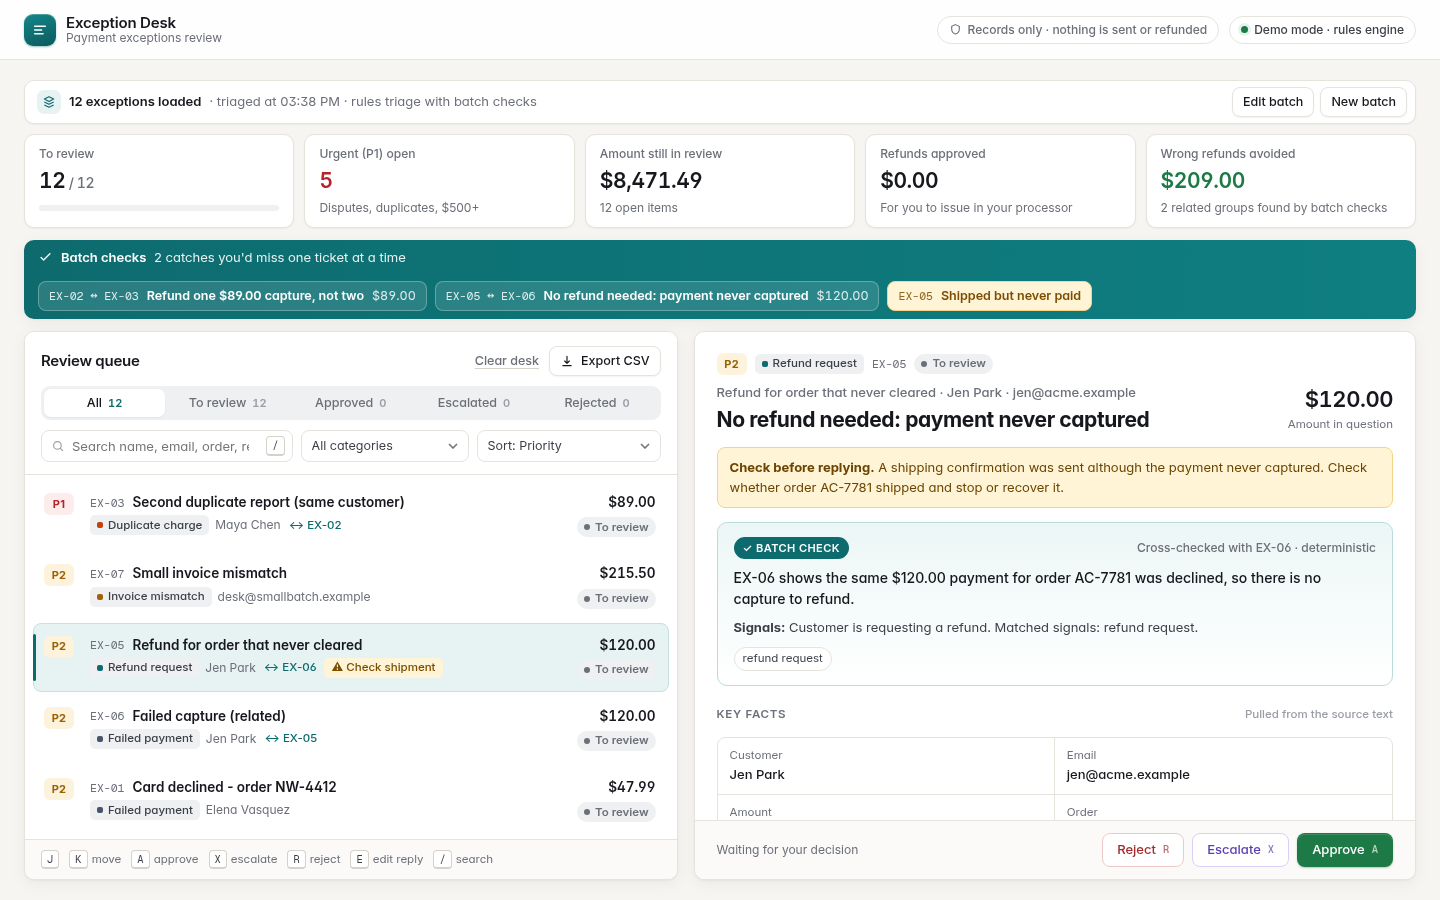
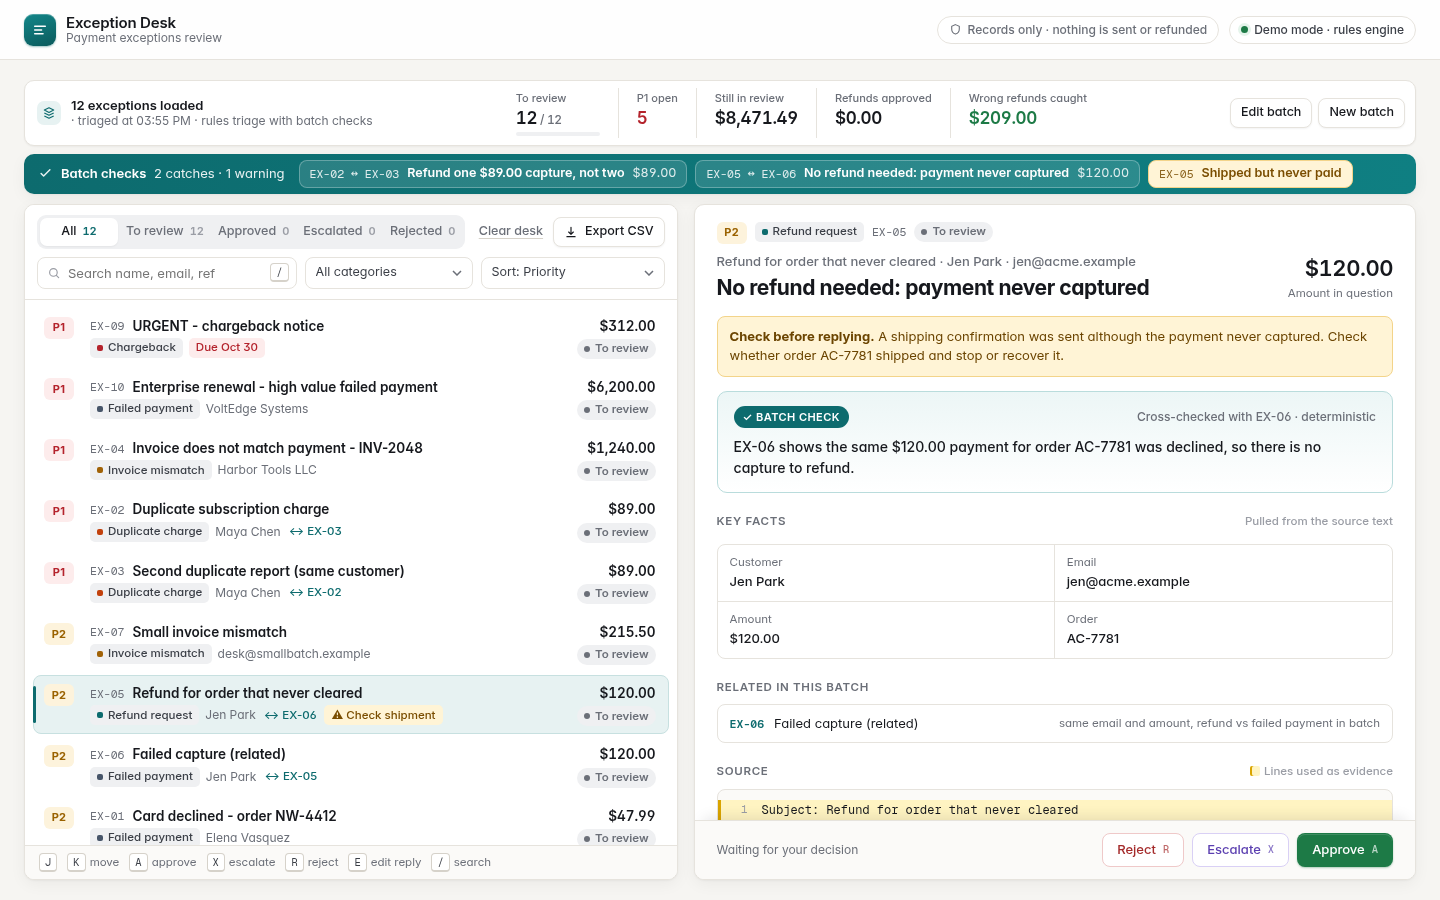
Fit 1440x900 recording frame: inline KPIs, one-line batch checks, 9 queue rows; Signal match wording, deduped signals, wide last fact, toast bottom-center; refreshed screenshots

diff --git a/public/styles.css b/public/styles.css
@@ -207,26 +207,28 @@ kbd {
 /* ---------- Review ---------- */
 .review { max-width: 1480px; margin: 0 auto; padding: 20px 24px 20px; height: calc(100vh - 60px); min-height: 640px; display: flex; flex-direction: column; }
 
-.kpis { display: grid; grid-template-columns: repeat(5, minmax(0, 1fr)); gap: 10px; margin-bottom: 12px; }
-.kpi { padding: 10px 14px; background: var(--surface); border: 1px solid var(--border); border-radius: var(--radius); box-shadow: var(--shadow-sm); }
-.kpi-label { font-size: 12px; color: var(--muted); font-weight: 500; display: flex; align-items: center; gap: 6px; }
-.kpi-value { margin-top: 2px; font-size: 21px; font-weight: 650; letter-spacing: -0.02em; font-variant-numeric: tabular-nums; }
-.kpi-value small { font-size: 14px; color: var(--muted); font-weight: 500; }
+.kpis { display: flex; align-items: stretch; flex: 1; justify-content: center; min-width: 0; }
+.kpi { padding: 2px 18px; border-left: 1px solid var(--border); min-width: 0; }
+.kpi:first-child { border-left: none; }
+.kpi-label { font-size: 11px; white-space: nowrap; color: var(--muted); font-weight: 500; display: flex; align-items: center; gap: 6px; }
+.kpi-value { margin-top: 0; font-size: 17px; line-height: 1.3; white-space: nowrap; font-weight: 650; letter-spacing: -0.02em; font-variant-numeric: tabular-nums; }
+.kpi-value small { font-size: 12px; color: var(--muted); font-weight: 500; }
 .kpi-foot { margin-top: 2px; font-size: 12px; color: var(--muted); }
 .kpi.alert-kpi .kpi-value { color: var(--p1); }
-.progress { margin-top: 8px; height: 6px; background: var(--p3-soft); border-radius: 99px; overflow: hidden; display: flex; }
+.progress { margin-top: 3px; height: 4px; width: 84px; background: var(--p3-soft); border-radius: 99px; overflow: hidden; display: flex; }
 .progress > span { display: block; height: 100%; }
 .progress .seg-ok { background: var(--ok); } .progress .seg-esc { background: #7c5fd3; } .progress .seg-rej { background: #d77a7a; }
 
 .workspace { flex: 1; min-height: 0; display: grid; grid-template-columns: minmax(420px, 0.95fr) minmax(0, 1.05fr); gap: 16px; align-items: stretch; }
 
 .queue { display: flex; flex-direction: column; overflow: hidden; min-height: 0; }
-.queue-head { padding: 14px 16px 12px; border-bottom: 1px solid var(--border); background: var(--surface); }
-.queue-title-row { display: flex; align-items: center; justify-content: space-between; margin-bottom: 10px; }
+.queue-head { padding: 10px 12px 10px; border-bottom: 1px solid var(--border); background: var(--surface); }
+.queue-title-row { display: flex; align-items: center; justify-content: space-between; gap: 10px; margin-bottom: 8px; }
+.queue-title-row .status-tabs { flex: 1; margin-bottom: 0; min-width: 0; }
 .queue-title-row h2 { font-size: 15px; font-weight: 650; }
 
 .status-tabs { display: flex; gap: 2px; padding: 3px; background: var(--p3-soft); border-radius: 9px; margin-bottom: 10px; }
-.status-tab { flex: 1; border: none; background: none; font: inherit; font-size: 12.5px; font-weight: 550; color: var(--muted); height: 28px; border-radius: 7px; cursor: pointer; display: inline-flex; align-items: center; justify-content: center; gap: 6px; }
+.status-tab { flex: 1; white-space: nowrap; padding: 0 6px; border: none; background: none; font: inherit; font-size: 12.5px; font-weight: 550; color: var(--muted); height: 28px; border-radius: 7px; cursor: pointer; display: inline-flex; align-items: center; justify-content: center; gap: 6px; }
 .status-tab .count { font-size: 11px; font-variant-numeric: tabular-nums; color: var(--faint); font-weight: 600; }
 .status-tab[aria-selected='true'] { background: var(--surface); color: var(--ink); box-shadow: var(--shadow-sm); }
 .status-tab[aria-selected='true'] .count { color: var(--accent); }
@@ -246,7 +248,7 @@ kbd {
   grid-template-columns: 34px minmax(0, 1fr) auto;
   gap: 4px 12px;
   align-items: start;
-  padding: 11px 12px 11px 10px;
+  padding: 7px 12px 7px 10px;
   border-radius: 8px;
   border: 1px solid transparent;
   cursor: pointer;
@@ -268,10 +270,10 @@ kbd {
 .q-top { display: flex; align-items: center; gap: 8px; min-width: 0; }
 .q-id { font-family: var(--mono); font-size: 11.5px; color: var(--muted); flex: none; }
 .q-subject { font-weight: 560; font-size: 13.5px; white-space: nowrap; overflow: hidden; text-overflow: ellipsis; }
-.q-sub { margin-top: 3px; display: flex; align-items: center; gap: 6px; font-size: 12px; color: var(--muted); min-width: 0; flex-wrap: wrap; }
+.q-sub { margin-top: 2px; display: flex; align-items: center; gap: 6px; font-size: 12px; color: var(--muted); min-width: 0; flex-wrap: wrap; }
 .q-sub .sep { color: var(--faint); }
 .q-who { white-space: nowrap; overflow: hidden; text-overflow: ellipsis; max-width: 220px; }
-.q-right { display: flex; flex-direction: column; align-items: flex-end; gap: 5px; }
+.q-right { display: flex; flex-direction: column; align-items: flex-end; gap: 3px; }
 .q-amount { font-weight: 600; font-size: 13.5px; font-variant-numeric: tabular-nums; }
 .q-amount.none { color: var(--faint); font-weight: 500; }
 
@@ -293,7 +295,7 @@ kbd {
 .st-escalated { color: var(--esc); background: var(--esc-soft); }
 .st-rejected { color: var(--danger); background: var(--danger-soft); }
 
-.shortcuts { margin: 0; padding: 10px 16px; border-top: 1px solid var(--border); font-size: 11.5px; color: var(--muted); display: flex; align-items: center; gap: 4px; flex-wrap: wrap; background: var(--surface-2); }
+.shortcuts { margin: 0; padding: 7px 14px; border-top: 1px solid var(--border); font-size: 11.5px; color: var(--muted); display: flex; align-items: center; gap: 4px; flex-wrap: wrap; background: var(--surface-2); }
 .shortcuts kbd { margin-left: 6px; }
 .shortcuts kbd:first-child { margin-left: 0; }
 
@@ -314,7 +316,7 @@ kbd {
 /* ---------- Detail ---------- */
 .detail { display: flex; flex-direction: column; overflow: hidden; min-height: 0; }
 .detail-content { display: flex; flex-direction: column; min-height: 0; flex: 1; }
-.detail-scroll { overflow: auto; padding: 20px 22px 8px; flex: 1; }
+.detail-scroll { overflow: auto; padding: 16px 22px 32px; flex: 1; }
 .d-head { display: flex; justify-content: space-between; gap: 16px; align-items: flex-start; }
 .d-crumbs { display: flex; align-items: center; gap: 8px; flex-wrap: wrap; margin-bottom: 8px; }
 .d-title { font-size: 19px; font-weight: 650; line-height: 1.3; }
@@ -341,9 +343,10 @@ kbd {
 .facts { display: grid; grid-template-columns: repeat(2, minmax(0, 1fr)); gap: 0; border: 1px solid var(--border); border-radius: 8px; overflow: hidden; }
 .fact { padding: 9px 12px; border-bottom: 1px solid var(--border); min-width: 0; }
 .fact:nth-child(odd) { border-right: 1px solid var(--border); }
+.fact.wide { grid-column: 1 / -1; border-right: none; }
 .fact dt { font-size: 11.5px; color: var(--muted); }
 .fact dd { margin: 1px 0 0; font-size: 13px; font-weight: 550; overflow-wrap: anywhere; }
-.facts .fact:nth-last-child(-n + 2):nth-child(odd), .facts .fact:last-child { border-bottom: none; }
+.facts .fact:last-child, .facts .fact:nth-last-child(2):nth-child(odd):not(.wide) { border-bottom: none; }
 .facts-empty { font-size: 13px; color: var(--muted); padding: 10px 12px; border: 1px dashed var(--border-strong); border-radius: 8px; }
 
 .related { display: flex; flex-direction: column; gap: 6px; }
@@ -363,7 +366,7 @@ kbd {
 .note-input { width: 100%; height: 34px; font: inherit; font-size: 13px; padding: 0 12px; border: 1px solid var(--border); border-radius: 8px; background: var(--surface); color: var(--ink); }
 .draft-meta { margin-top: 6px; display: flex; justify-content: space-between; font-size: 11.5px; color: var(--faint); }
 
-.decision-bar { border-top: 1px solid var(--border); padding: 12px 22px; display: flex; align-items: center; justify-content: space-between; gap: 10px; background: var(--surface-2); flex-wrap: wrap; }
+.decision-bar { position: relative; z-index: 1; box-shadow: 0 -10px 16px -10px rgba(22, 24, 29, 0.14); border-top: 1px solid var(--border); padding: 12px 22px; display: flex; align-items: center; justify-content: space-between; gap: 10px; background: var(--surface-2); flex-wrap: wrap; }
 .decision-buttons { display: flex; gap: 8px; flex-wrap: wrap; }
 .decision-state { font-size: 12px; color: var(--muted); display: flex; align-items: center; gap: 8px; }
 
@@ -392,7 +395,7 @@ kbd {
 .dialog-buttons { display: flex; gap: 8px; }
 
 /* ---------- Toast ---------- */
-.toast { position: fixed; bottom: 22px; left: 24px; background: #1d2026; color: #fff; padding: 10px 16px; border-radius: 10px; font-size: 13px; box-shadow: var(--shadow-lg); z-index: 50; display: flex; align-items: center; gap: 8px; }
+.toast { position: fixed; bottom: 22px; left: 50%; transform: translateX(-50%); background: #1d2026; color: #fff; padding: 10px 16px; border-radius: 10px; font-size: 13px; box-shadow: var(--shadow-lg); z-index: 50; display: flex; align-items: center; gap: 8px; }
 .toast.error { background: #7c1d1d; }
 
 @media (max-width: 1100px) {
@@ -400,7 +403,8 @@ kbd {
   .queue-list { max-height: 520px; }
   .intake { grid-template-columns: 1fr; gap: 32px; padding-top: 32px; }
   .composer { position: static; }
-  .kpis { grid-template-columns: repeat(auto-fit, minmax(170px, 1fr)); }
+  .batchbar { flex-wrap: wrap; }
+  .kpis { flex-wrap: wrap; justify-content: flex-start; order: 3; flex-basis: 100%; }
   .workspace { grid-template-columns: 1fr; }
   .detail { position: static; max-height: none; }
   .pill-safe { display: none; }
@@ -409,17 +413,19 @@ kbd {
 .btn.link:hover { color: var(--danger); }
 
 /* Batch bar + checks */
-.batchbar { display: flex; align-items: center; justify-content: space-between; gap: 12px; padding: 6px 8px 6px 12px; margin-bottom: 10px; background: var(--surface); border: 1px solid var(--border); border-radius: var(--radius); box-shadow: var(--shadow-sm); font-size: 13px; }
-.batchbar-info { display: flex; align-items: center; gap: 8px; min-width: 0; }
+.batchbar { display: flex; align-items: center; justify-content: space-between; gap: 12px; padding: 7px 10px 7px 12px; margin-bottom: 8px; background: var(--surface); border: 1px solid var(--border); border-radius: var(--radius); box-shadow: var(--shadow-sm); font-size: 13px; }
+.batchbar-info { display: flex; align-items: center; gap: 10px; min-width: 0; flex: none; }
+.batchbar-text { display: flex; flex-direction: column; line-height: 1.3; }
+.batchbar-text .muted { white-space: nowrap; }
 .batchbar-info strong { font-weight: 600; }
 .batchbar-icon { width: 24px; height: 24px; border-radius: 7px; display: grid; place-items: center; background: var(--accent-soft); color: var(--accent); }
 .batchbar-actions { display: flex; gap: 6px; }
 .kpi-good .kpi-value { color: var(--ok); }
-.checks { display: flex; align-items: center; gap: 14px; padding: 8px 10px 8px 14px; margin: 0 0 12px; border-radius: var(--radius); background: linear-gradient(90deg, #0d6b6e, #0f7f82); color: #fff; box-shadow: var(--shadow); flex-wrap: wrap; }
-.checks-label { display: flex; align-items: center; gap: 8px; font-size: 13px; color: rgba(255,255,255,0.9); }
+.checks { display: flex; align-items: center; gap: 14px; padding: 6px 8px 6px 14px; margin: 0 0 10px; flex-wrap: nowrap; overflow-x: auto; border-radius: var(--radius); background: linear-gradient(90deg, #0d6b6e, #0f7f82); color: #fff; box-shadow: var(--shadow); flex-wrap: wrap; }
+.checks-label { display: flex; align-items: center; gap: 8px; font-size: 13px; color: rgba(255,255,255,0.9); white-space: nowrap; }
 .checks-label strong { color: #fff; font-weight: 650; margin-right: 4px; }
-.checks-chips { display: flex; gap: 8px; flex-wrap: wrap; }
-.check-chip { display: inline-flex; align-items: center; gap: 8px; height: 30px; padding: 0 10px; border-radius: 8px; border: 1px solid rgba(255,255,255,0.28); background: rgba(255,255,255,0.12); color: #fff; font: inherit; font-size: 12.5px; cursor: pointer; }
+.checks-chips { display: flex; gap: 8px; flex-wrap: nowrap; }
+.check-chip { display: inline-flex; align-items: center; gap: 8px; height: 28px; white-space: nowrap; padding: 0 10px; border-radius: 8px; border: 1px solid rgba(255,255,255,0.28); background: rgba(255,255,255,0.12); color: #fff; font: inherit; font-size: 12.5px; cursor: pointer; }
 .check-chip:hover { background: rgba(255,255,255,0.22); }
 .check-ids { font-family: var(--mono); font-size: 11.5px; opacity: 0.85; }
 .check-verdict { font-weight: 600; }

diff --git a/public/app.js b/public/app.js
@@ -178,7 +178,7 @@ function updateInputStats() {
 
 function renderLoading() {
   showView('review');
-  $('#kpis').innerHTML = Array.from({ length: 5 }, () => '<div class="kpi"><div class="skeleton" style="height:12px;width:60%"></div><div class="skeleton" style="height:26px;width:45%;margin-top:10px"></div></div>').join('');
+  $('#kpis').innerHTML = Array.from({ length: 5 }, () => '<div class="kpi"><div class="skeleton" style="height:10px;width:70px"></div><div class="skeleton" style="height:18px;width:60px;margin-top:6px"></div></div>').join('');
   $('#status-tabs').innerHTML = '';
   $('#batchbar-count').textContent = 'Triaging batch…';
   $('#batchbar-meta').textContent = '';
@@ -215,25 +215,21 @@ function renderKpis() {
         <span class="seg-ok" style="width:${pct(k.approved)}%"></span><span class="seg-esc" style="width:${pct(k.escalated)}%"></span><span class="seg-rej" style="width:${pct(k.rejected)}%"></span>
       </div>
     </div>
-    <div class="kpi ${k.p1Open ? 'alert-kpi' : ''}">
-      <div class="kpi-label">Urgent (P1) open</div>
+    <div class="kpi ${k.p1Open ? 'alert-kpi' : ''}" title="Disputes, duplicate charges and amounts of $500 or more">
+      <div class="kpi-label">P1 open</div>
       <div class="kpi-value">${k.p1Open}</div>
-      <div class="kpi-foot">Disputes, duplicates, $500+</div>
     </div>
-    <div class="kpi">
-      <div class="kpi-label">Amount still in review</div>
+    <div class="kpi" title="${k.pending} open item${k.pending === 1 ? '' : 's'}">
+      <div class="kpi-label">Still in review</div>
       <div class="kpi-value">${formatMoney(k.openAmount, { blankZero: false })}</div>
-      <div class="kpi-foot">${k.pending} open item${k.pending === 1 ? '' : 's'}</div>
     </div>
-    <div class="kpi">
+    <div class="kpi" title="Approved refunds for you to issue in your processor">
       <div class="kpi-label">Refunds approved</div>
       <div class="kpi-value">${formatMoney(k.approvedRefunds, { blankZero: false })}</div>
-      <div class="kpi-foot">For you to issue in your processor</div>
     </div>
-    <div class="kpi kpi-good">
-      <div class="kpi-label">Wrong refunds avoided</div>
+    <div class="kpi kpi-good" title="Refunds the batch checks show are not due: a refund asked for a payment that never captured, and second reports of a duplicate charge. ${groups} related group${groups === 1 ? '' : 's'} in this batch.">
+      <div class="kpi-label">Wrong refunds caught</div>
       <div class="kpi-value">${formatMoney(avoided, { blankZero: false })}</div>
-      <div class="kpi-foot">${groups} related group${groups === 1 ? '' : 's'} found by batch checks</div>
     </div>`;
   renderBatchbar();
   renderChecks();
@@ -251,7 +247,7 @@ function renderBatchbar() {
 
 function renderChecks() {
   const el = $('#checks');
-  const leads = state.items.filter((i) => i.batchCheck && i.batchCheck.kind !== 'duplicate_secondary');
+  const leads = state.items.filter((i) => i.batchCheck && (i.batchCheck.kind === 'refund_after_failed' || i.batchCheck.kind === 'duplicate_primary'));
   const flagged = state.items.filter((i) => i.flags?.length);
   if (!leads.length && !flagged.length) {
     el.classList.add('hidden');
@@ -267,7 +263,7 @@ function renderChecks() {
   const warn = flagged
     .map((i) => `<button type="button" class="check-chip warn" data-goto="${esc(i.id)}"><span class="check-ids">${esc(i.id)}</span><span class="check-verdict">Shipped but never paid</span></button>`)
     .join('');
-  el.innerHTML = `<div class="checks-label"><svg viewBox="0 0 24 24" width="15" height="15" aria-hidden="true"><path d="M5 12l4 4 10-10" fill="none" stroke="currentColor" stroke-width="2.4" stroke-linecap="round" stroke-linejoin="round"/></svg><span><strong>Batch checks</strong> ${leads.length} catch${leads.length === 1 ? '' : 'es'} you'd miss one ticket at a time</span></div><div class="checks-chips">${chips}${warn}</div>`;
+  el.innerHTML = `<div class="checks-label"><svg viewBox="0 0 24 24" width="15" height="15" aria-hidden="true"><path d="M5 12l4 4 10-10" fill="none" stroke="currentColor" stroke-width="2.4" stroke-linecap="round" stroke-linejoin="round"/></svg><span><strong>Batch checks</strong> ${leads.length} catch${leads.length === 1 ? '' : 'es'}${flagged.length ? ` · ${flagged.length} warning${flagged.length === 1 ? '' : 's'}` : ''}</span></div><div class="checks-chips">${chips}${warn}</div>`;
   el.classList.remove('hidden');
 }
 
@@ -372,7 +368,12 @@ function renderDetail() {
   const amt = formatMoney(item.displayAmount);
   const facts = item.facts || [];
   const byId = new Map(state.items.map((i) => [i.id, i]));
-  const signals = item.matchedSignals || [];
+  const rawSignals = [...new Set(item.matchedSignals || [])];
+  const signals = rawSignals.filter((x) => !rawSignals.some((y) => y !== x && y.includes(x)));
+  const whyText = String(item.why || '')
+    .replace(/^Batch check:[^.]*\.\s*/, '')
+    .replace(/\s*Matched signals:[^]*$/, '')
+    .trim();
   const draft = d.finalReply || item.draftReply || '';
   const edited = d.finalReply && d.finalReply !== item.draftReply;
   const who = [item.displayCustomer, item.displayEmail].filter(Boolean).join(' · ');
@@ -394,18 +395,21 @@ function renderDetail() {
         <div class="rec-label">${
           bc
             ? `<span class="badge-batch">✓ Batch check</span><span class="rec-src">Cross-checked with ${esc(bc.ids.filter((x) => x !== item.id).join(', '))} · deterministic</span>`
-            : `<span>Why this suggestion</span><span class="conf ${conf < 60 ? 'low' : ''}" title="Keyword match: how strongly the wording supports this category. It is a signal strength, not a probability.">${sourceTag(item.source)} Keyword match ${conf}% <span class="conf-bar"><span style="width:${conf}%"></span></span></span>`
+            : `<span>Why this suggestion</span><span class="conf ${conf < 60 ? 'low' : ''}" title="Signal match: how strongly the wording supports this category. It is a signal strength, not a probability.">${sourceTag(item.source)} Signal match ${conf}% <span class="conf-bar"><span style="width:${conf}%"></span></span></span>`
         }</div>
         ${bc ? `<p class="rec-detail">${esc(bc.detail)}</p>${item.suggestedAction !== bc.verdict ? `<p class="rec-why"><strong>Next step:</strong> ${esc(item.suggestedAction)}</p>` : ''}` : ''}
-        <p class="rec-why">${bc ? '<strong>Signals:</strong> ' : ''}${esc(bc ? item.why.replace(/^Batch check:[^.]*\.\s*/, '') : item.why)}</p>
-        ${signals.length ? `<div class="signals">${signals.map((x) => `<span class="signal">${esc(x)}</span>`).join('')}</div>` : ''}
+        ${bc ? '' : whyText ? `<p class="rec-why">${esc(whyText)}</p>` : ''}
+        ${!bc && signals.length ? `<div class="signals">${signals.map((x) => `<span class="signal">${esc(x)}</span>`).join('')}</div>` : ''}
       </div>
 
       <div class="section">
         <div class="section-title">Key facts <span class="hint">Pulled from the source text</span></div>
         ${
           facts.length
-            ? `<dl class="facts">${facts.map((f) => `<div class="fact"><dt>${esc(f.label)}</dt><dd>${esc(f.value)}</dd></div>`).join('')}</dl>`
+            ? `<dl class="facts">${facts
+                .filter((f) => String(f.value || '').trim())
+                .map((f, i, arr) => `<div class="fact ${i === arr.length - 1 && arr.length % 2 === 1 ? 'wide' : ''}"><dt>${esc(f.label)}</dt><dd>${esc(f.value)}</dd></div>`)
+                .join('')}</dl>`
             : '<div class="facts-empty">Nothing structured could be read from this item. Check the source below before deciding.</div>'
         }
       </div>

diff --git a/public/index.html b/public/index.html
@@ -96,21 +96,22 @@
     <div class="batchbar" id="batchbar">
       <div class="batchbar-info">
         <span class="batchbar-icon" aria-hidden="true"><svg viewBox="0 0 24 24" width="14" height="14"><path d="M4 7l8-4 8 4-8 4-8-4zm0 5l8 4 8-4M4 17l8 4 8-4" fill="none" stroke="currentColor" stroke-width="2" stroke-linejoin="round"/></svg></span>
-        <strong id="batchbar-count">0 exceptions loaded</strong><span class="muted" id="batchbar-meta"></span>
+        <div class="batchbar-text"><strong id="batchbar-count">0 exceptions loaded</strong><span class="muted small" id="batchbar-meta"></span></div>
       </div>
+      <section class="kpis" id="kpis" aria-label="Batch summary"></section>
       <div class="batchbar-actions">
         <button type="button" id="edit-batch" class="btn ghost sm">Edit batch</button>
         <button type="button" id="new-batch" class="btn ghost sm">New batch</button>
       </div>
     </div>
-    <section class="kpis" id="kpis" aria-label="Batch summary"></section>
     <section class="checks hidden" id="checks" aria-label="Batch checks"></section>
 
     <div class="workspace">
       <section class="queue card" aria-labelledby="queue-title">
         <div class="queue-head">
+          <h2 id="queue-title" class="sr-only">Review queue</h2>
           <div class="queue-title-row">
-            <h2 id="queue-title">Review queue</h2>
+            <div class="status-tabs" id="status-tabs" role="tablist" aria-label="Filter by review status"></div>
             <div class="queue-head-actions">
               <button type="button" id="clear-desk" class="btn link sm" title="Remove the stored queue and all decisions from this browser">Clear desk</button>
               <button type="button" id="export-open" class="btn ghost sm" disabled>
@@ -119,11 +120,10 @@
               </button>
             </div>
           </div>
-          <div class="status-tabs" id="status-tabs" role="tablist" aria-label="Filter by review status"></div>
           <div class="toolbar">
             <div class="search">
               <svg viewBox="0 0 24 24" width="14" height="14" aria-hidden="true"><circle cx="11" cy="11" r="6.5" fill="none" stroke="currentColor" stroke-width="2"/><path d="M16 16l4 4" stroke="currentColor" stroke-width="2" stroke-linecap="round"/></svg>
-              <input type="search" id="search" placeholder="Search name, email, order, ref…" aria-label="Search queue" />
+              <input type="search" id="search" placeholder="Search name, email, ref" aria-label="Search queue" />
               <kbd>/</kbd>
             </div>
             <select id="filter-category" aria-label="Category">
